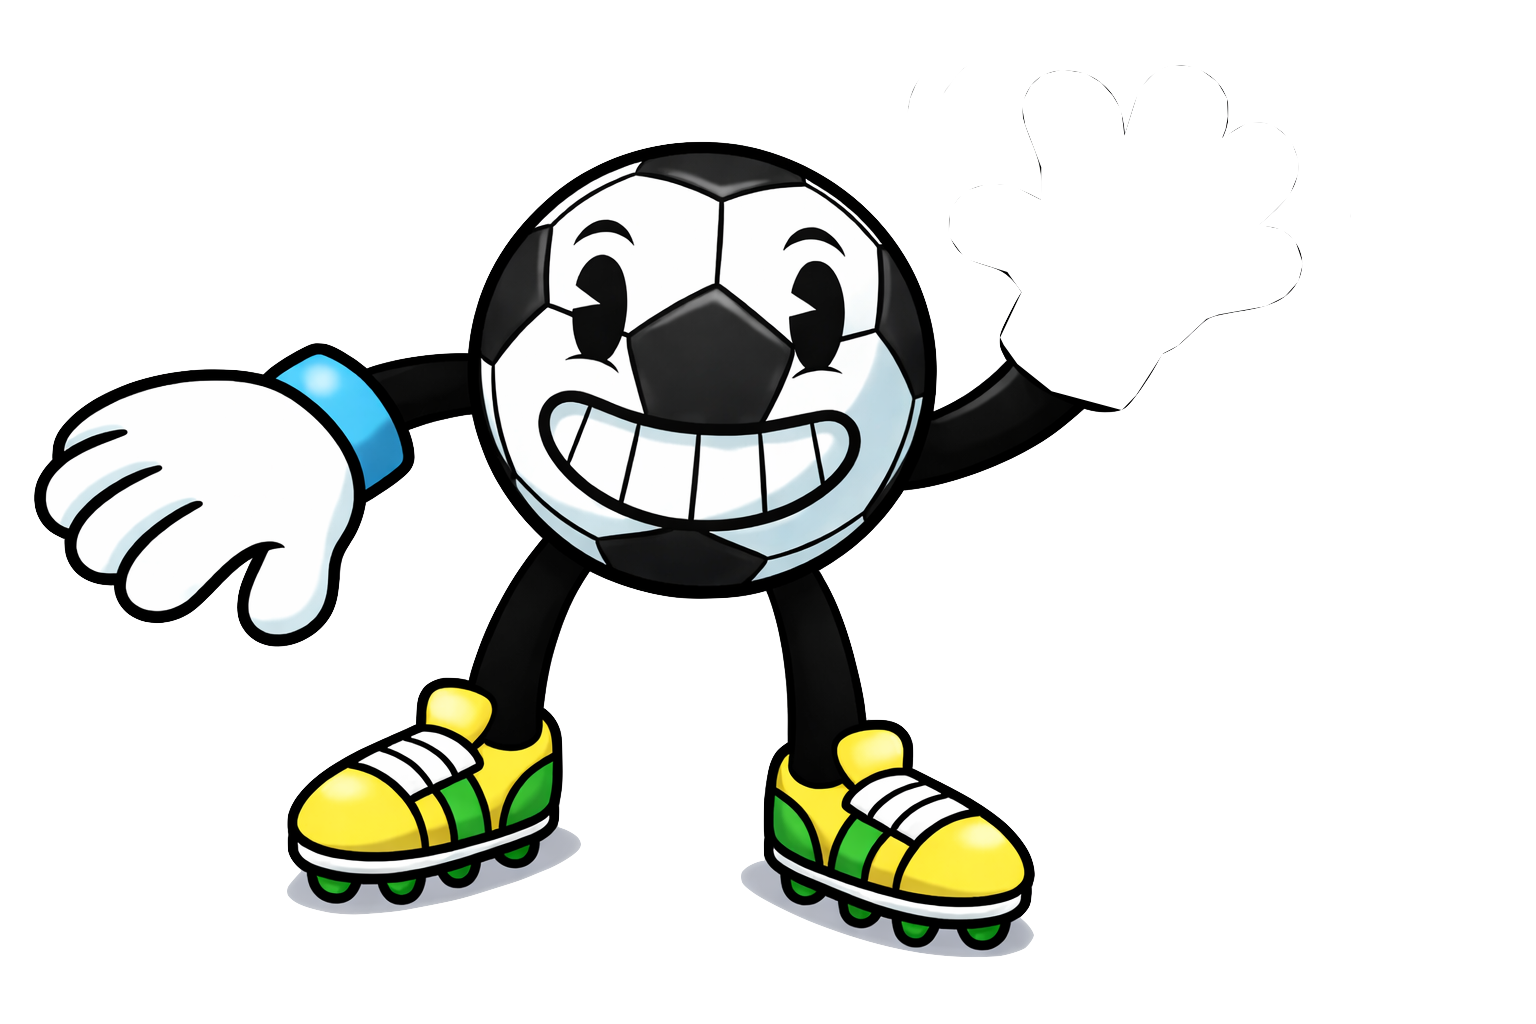
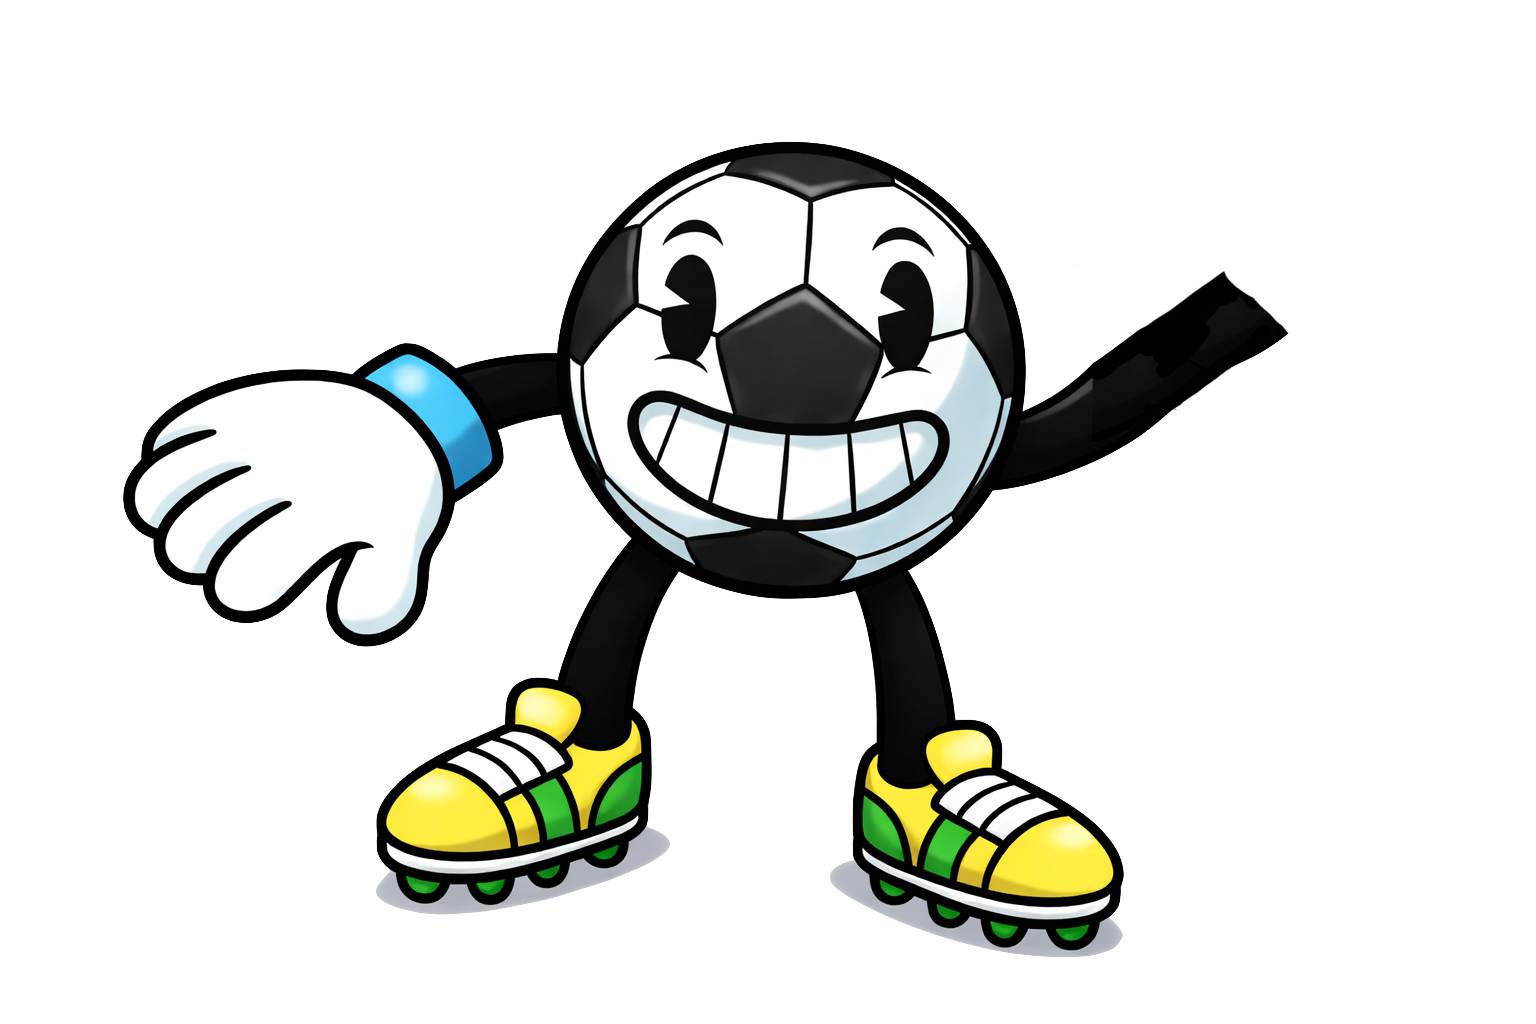
fixed vinnies hand

Changed region(s): [[0.0, 0.125, 0.8438, 0.9375]]

diff --git a/components/common/VinnieCard.tsx b/components/common/VinnieCard.tsx
@@ -13,12 +13,15 @@ const HAND_H = 40;
 
 // Position of the hand over the body — tune to align with the ghost arm
 // top/left are relative to the vinnieContainer
-const HAND_TOP = -2;
-const HAND_LEFT = 70;
+const HAND_TOP = -5;
+const HAND_LEFT = 80;
 
 // Rotation pivot = bottom-center of the hand image (the wrist)
 // Since the hand fills its frame, this is simply half the height
 const PIVOT_Y = HAND_H / 2;
+
+// Starting angle offset — positive = clockwise, moves hand away from face
+const HAND_ANGLE_OFFSET = 20;
 
 const VinnieCard = ({ trainedToday, streak }: VinnieCardProps) => {
   const now = new Date();
@@ -66,7 +69,10 @@ const VinnieCard = ({ trainedToday, streak }: VinnieCardProps) => {
 
   const rotate = waveAnim.interpolate({
     inputRange: [0, 1],
-    outputRange: ['-20deg', '20deg'],
+    outputRange: [
+      `${HAND_ANGLE_OFFSET - 10}deg`,
+      `${HAND_ANGLE_OFFSET + 20}deg`,
+    ],
   });
 
   const { message } = useMemo(

diff --git a/lib/notifications.ts b/lib/notifications.ts
@@ -12,6 +12,15 @@ Notifications.setNotificationHandler({
   }),
 });
 
+// Android 8+ requires a notification channel
+if (Platform.OS === 'android') {
+  Notifications.setNotificationChannelAsync('reminders', {
+    name: 'Practice Reminders',
+    importance: Notifications.AndroidImportance.HIGH,
+    sound: 'default',
+  });
+}
+
 const DAYS_BEFORE_FIRST_REMINDER = 2;
 const TOTAL_REMINDER_DAYS = 7;
 const REMINDER_HOUR = 15; // 3pm local time
@@ -81,7 +90,7 @@ export async function scheduleInactivityReminders(): Promise<void> {
     const { title, body } = getReminderMessage(dayOffset);
 
     await Notifications.scheduleNotificationAsync({
-      content: { title, body, sound: true },
+      content: { title, body, sound: true, ...(Platform.OS === 'android' && { channelId: 'reminders' }) },
       trigger: { type: Notifications.SchedulableTriggerInputTypes.DATE, date: triggerDate },
     });
   }
